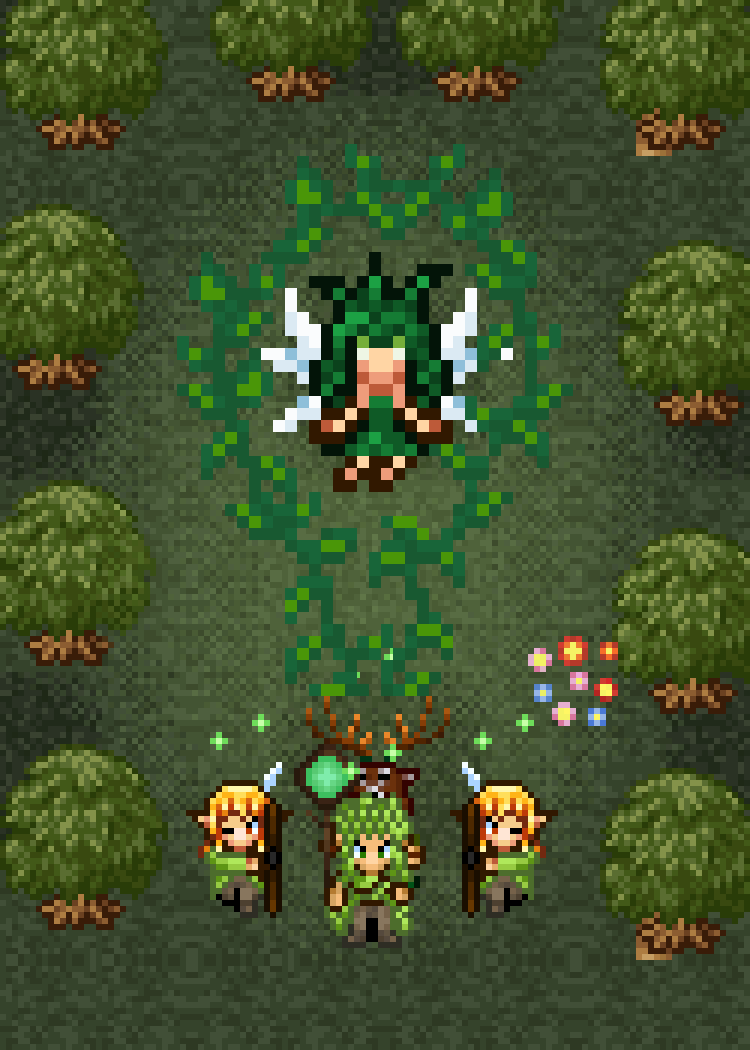
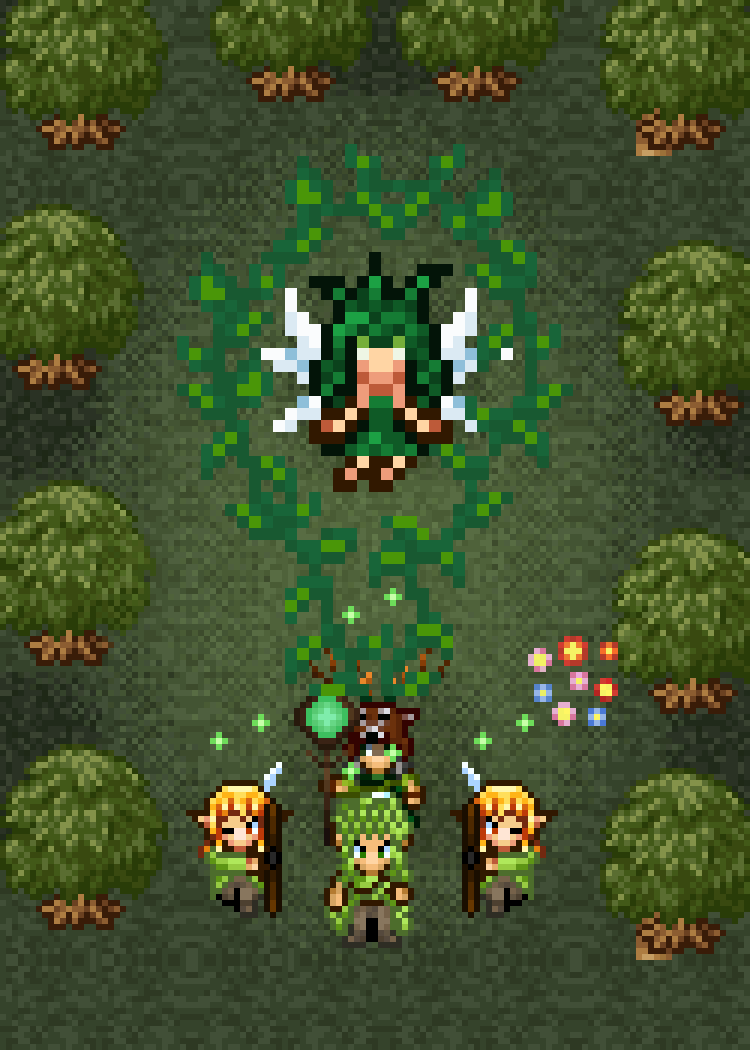
Runde 6: zweite Überarbeitung (Zwischenstand)
Claude-Session: https://claude.ai/code/session_01TEnvTzH2xD44R6Unjv7vDo

diff --git a/data/sleeve-proposals/runde6/generator/s17_glade_of_the_vanguard.py b/data/sleeve-proposals/runde6/generator/s17_glade_of_the_vanguard.py
@@ -112,7 +112,7 @@ def stand(s, cx, fy, fl=False):
     s = flip(s) if fl else s
     put(p2, s, int(cx - s.shape[1] / 2), fy - s.shape[0]); return (int(cx), fy - s.shape[0])
 tops = []
-tops.append(stand(druid, 62, 151))                          # Elven Druid hinter dem Leader
+tops.append(stand(druid, 62, 141))                          # Elven Druid hinter dem Leader
 tops.append(stand(archer, 40, 153)); tops.append(stand(archer, 84, 153, True)); tops.append(stand(leader, 62, 158))
 # grüne Heilfunken über den Elfen (+HP)
 GRN = [(200, 255, 170), (110, 220, 90)]
